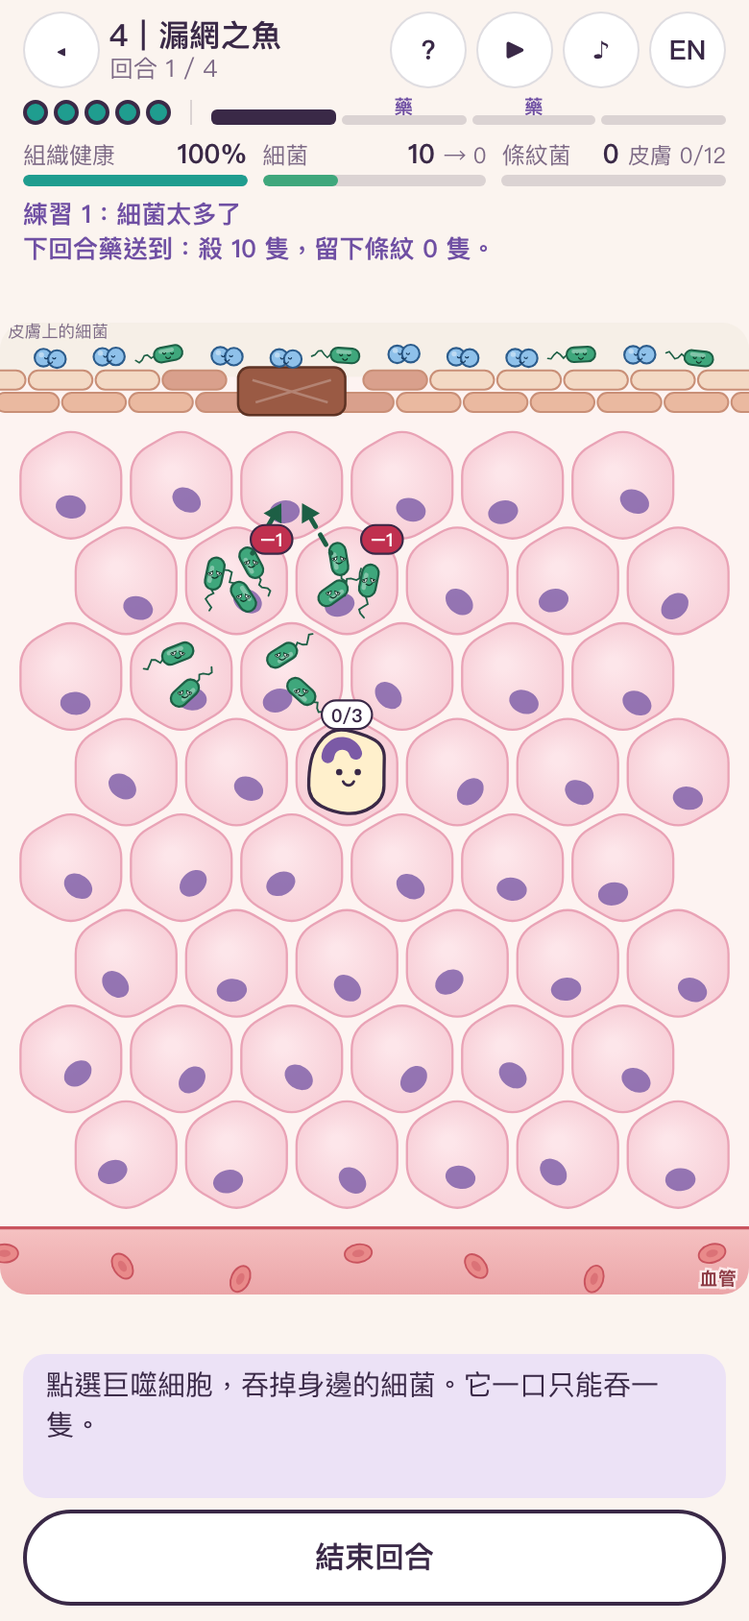
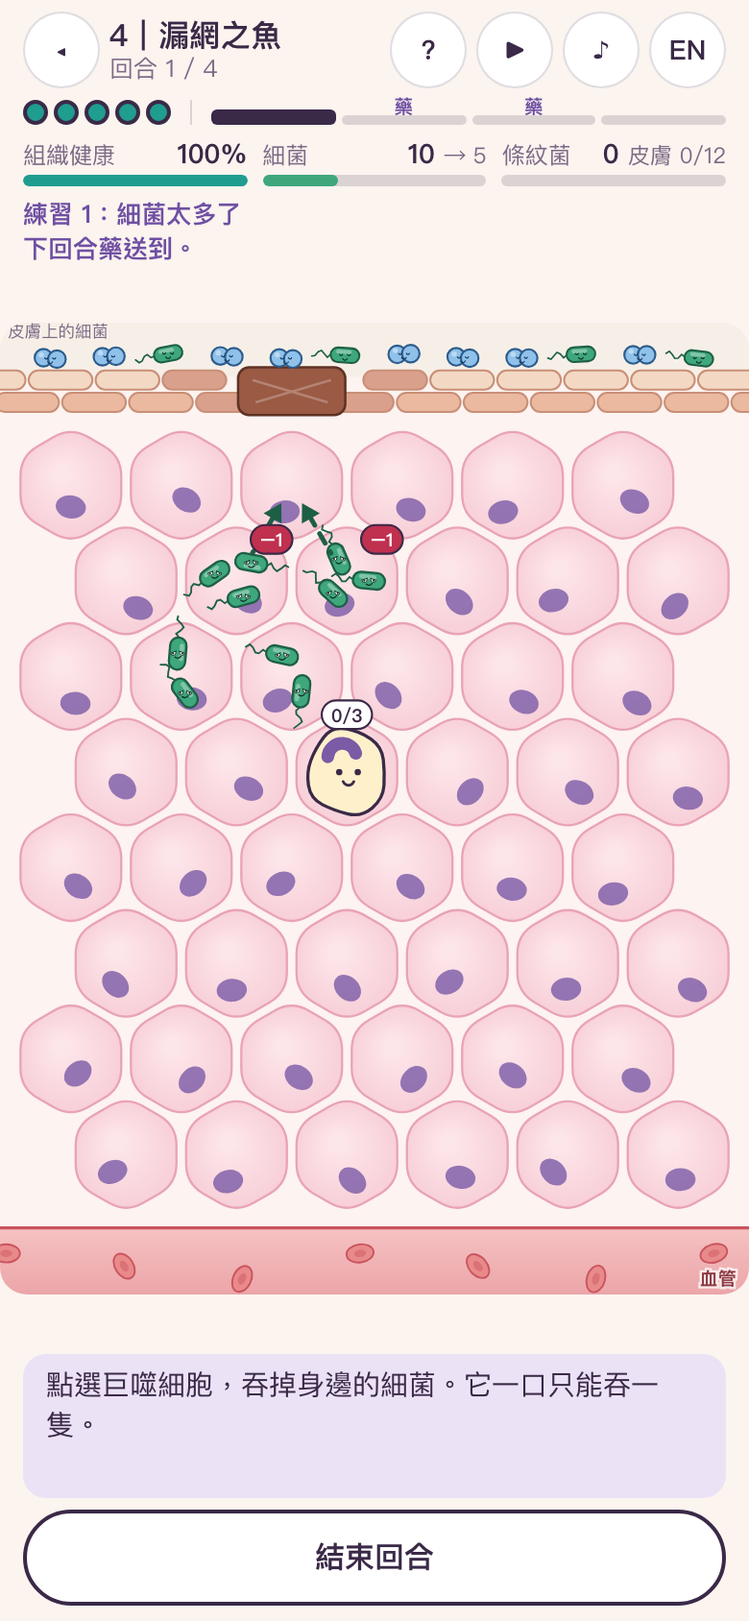
feat(ch4): two-dose course and fixes from the second review
- The course now does visible work on both turns: the first dose kills
  half the sensitive bacteria on each tile and stops them dividing, the
  second dose finishes them. No battle ends on the turn the drug arrives.
- The 'drug next turn' line uses the forecast instead of stale counts and
  shows no numbers in practice stages.
- Settle hint no longer jumps the queue and explains why a real course
  has a set length; battle 2 states that a doctor prescribed again; the
  'cost was worth paying' line depends on how much the drug helped.
- Design report: second review, updated balance table and screenshots.

diff --git a/js/mode-abx.js b/js/mode-abx.js
@@ -64,20 +64,23 @@
   async function settleFx(G) {
     while (AX.onCourse(G)) {
       const e = AX.dose(G); floraFx(G, e); B.hud();
-      B.hint('settle', ['細菌清光了，但療程照醫師的指示吃完。一個療程對皮膚的代價是固定的，和你打得快慢無關。', 'All clear, but the course is finished as prescribed. Its cost to the skin is fixed, however fast you were.'], true);
+      if (e) B.hint('settle', ['戰場上看得到細菌清光了，真實世界裡看不到，所以療程多長由開藥的人決定。這裡照樣吃完。', 'Here you can see the bacteria are gone. In real life you cannot, so the prescriber sets the length. The course is finished as prescribed.']);
       await IW.wait(750); if (B.G !== G) return;
     }
   }
-  // 醫師開的抗生素送到：不是玩家的按鈕
+  // 醫師開的抗生素：不是玩家的按鈕。第一劑殺一半、讓怕藥的細菌停止分裂；下一回合第二劑清完
   async function drugFx(G) {
-    const ev = G.drugEv, nS = ev.kill.reduce((n, e) => n + e.n, 0), nR = AX.nR(G); G.drugEv = null; B.mark('drug'); IW.sfx('calm');
-    B.ftext(W / 2, H - 70, tx('抗生素送到', 'The antibiotic arrives'), DRUG);
+    const ev = G.drugEv, nS = ev.kill.reduce((n, e) => n + e.n, 0), nR = AX.nR(G), left = AX.load(G) - nR; G.drugEv = null; IW.sfx('calm');
+    if (!ev.last) { B.mark('drug'); G.rAtDrug = nR; }
+    B.ftext(W / 2, H - 70, ev.last ? tx('第二劑', 'Second dose') : tx('抗生素送到', 'The antibiotic arrives'), DRUG);
     for (let k = 0; k < 18; k++) { const x = 16 + Math.random() * (W - 32), r0 = Math.random() * 6; B.fly({ x0: x, y0: H - 26, x1: x + (Math.random() - .5) * 50, y1: 76 + Math.random() * 90, dur: .5 + Math.random() * .4, draw: (px, py, q) => A.pill(px, py, r0 + q * 4, .95, 1 - q * .55) }); }
     await IW.wait(560); if (B.G !== G) return;
-    ev.kill.forEach((e, k) => { const t = G.tiles[e.i]; for (const s of t.sp) if (!s.r) B.burst(s.x, s.y, 6, DRUGC, 65, 2.2); sync(t); B.ftext(t.x, t.y - 22, '−' + e.n, DRUG); if (k < 4) IW.sfx('pop'); });
-    B.hint('drug1', ['抗生素隨血液送到全身，攻擊細菌才有的構造（例如細胞壁）。你的細胞沒有細胞壁，受到的影響小得多。', 'Carried by the blood, the antibiotic attacks things only bacteria have, like a cell wall. Your cells have none.'], true);
-    if (nR && nS >= nR) B.hint('surv', [`有條紋的 ${nR} 隻沒死。不是藥把它們變成這樣，它們本來就不一樣。剩下的交給巨噬細胞。`, nR > 1 ? `${nR} striped ones survived. The drug did not make them so; they already were. Over to the macrophages.` : 'The striped one survived. The drug did not make it so; it already was. Over to the macrophages.'], true);
-    if (nR && nS < nR) B.hint('weak', [nS ? `這次只有 ${nS} 隻死掉。闖進來的細菌，多數是這種藥對付不了的那一型。` : '這次一隻也沒死。闖進來的細菌，全是這種藥對付不了的那一型。', nS ? `Only ${nS} died. Most of the bacteria that got in this time are the kind this drug does not work on.` : 'None died. Every one of the bacteria that got in this time is the kind this drug does not work on.'], true);
+    ev.kill.forEach((e, k) => { const t = G.tiles[e.i], dead = t.sp.filter(s => !s.r).slice(0, e.n); for (const s of dead) B.burst(s.x, s.y, 6, DRUGC, 65, 2.2); sync(t); B.ftext(t.x, t.y - 22, '−' + e.n, DRUG); if (k < 4) IW.sfx('pop'); });
+    if (!ev.last) {
+      B.hint('drug1', ['抗生素隨血液送到全身，攻擊細菌才有的構造（例如細胞壁）。你的細胞沒有細胞壁，受到的影響小得多。', 'Carried by the blood, the antibiotic attacks things only bacteria have, like a cell wall. Your cells have none.'], true);
+      if (left) B.hint('half', [`藥需要時間：第一劑殺掉 ${nS} 隻，剩下 ${left} 隻怕藥的不再分裂，下一回合的第二劑會清完。`, `The drug takes time: the first dose killed ${nS}; the ${left} sensitive left have stopped dividing, and the next dose finishes them.`], true);
+      if (nR > nS + left) B.hint('weak', ['這次闖進來的細菌，多數是這種藥對付不了的那一型。', 'Most of the bacteria that got in this time are the kind this drug does not work on.'], true);
+    } else if (nR) B.hint('surv', [`藥殺得死的都死了，有條紋的 ${nR} 隻還在。不是藥把它們變成這樣，它們本來就不一樣。交給巨噬細胞。`, nR > 1 ? `Everything the drug can kill is dead; ${nR} striped ones remain. The drug did not make them so; they already were. Over to the macrophages.` : 'Everything the drug can kill is dead; the striped one remains. The drug did not make it so; it already was. Over to the macrophages.'], true);
     B.hud(); await IW.wait(650); if (B.G !== G) return;
     if (G.result && G.result.win) await settleFx(G);
   }
@@ -151,14 +154,14 @@
     }
     G.rMax = Math.max(G.rMax, AX.nR(G));
     AX.advance(G);
-    if (G.drugEv) { G.rAtDrug = AX.nR(G); B.hud(); await drugFx(G); }
+    if (G.drugEv) { B.hud(); await drugFx(G); }
   };
 
   /* ---------------- HUD ---------------- */
   M.hud = function (G, st) {
     const c = G.cfg, L = AX.load(G), nR = AX.nR(G), hp = AX.health(G), pl = G.phase === 'player', fc = pl ? G.fc : null, n = cen(G.flora), f = []; let bad = '';
     if (fc) {
-      if (!G.drug && G.turn === c.DRUG_AT - 1) f.push(`<b>${tx(`下回合藥送到：殺 ${L - nR} 隻，留下條紋 ${nR} 隻。`, `Drug next turn: kills ${L - nR}, leaves ${nR} striped.`)}</b>`);
+      if (!G.drug && G.turn === c.DRUG_AT - 1) f.push(`<b>${st && st.kind === 'practice' ? tx('下回合藥送到。', 'The drug arrives next turn.') : tx(`下回合藥送到。它對條紋菌無效（到時約 ${fc.nR} 隻）。`, `Drug next turn. It will not work on the striped (about ${fc.nR} by then).`)}</b>`);
       else if (!G.drug && G.turn < c.DRUG_AT) f.push(tx(`藥第 ${c.DRUG_AT} 回合送到。`, `Drug arrives on turn ${c.DRUG_AT}.`));
       if (AX.onCourse(G) && AX.nextDose(G.flora).length) f.push(`<span class="w">${tx(`療程 ${G.doses + 1}／${c.COURSE}：皮膚上圈起來的位子，有一個會換成條紋菌。`, `Course ${G.doses + 1}/${c.COURSE}: one circled spot on the skin turns striped.`)}</span>`);
       if (fc.nDmg && !(st && st.kind === 'practice')) f.push(tx(`${fc.nDmg} 格組織會受損。`, `${fc.nDmg} tile${fc.nDmg > 1 ? 's' : ''} will be damaged.`));
@@ -246,11 +249,11 @@
     const why = { tissue: tx('組織損傷過重', 'Too much tissue damage'), overrun: tx('感染失控', 'Infection out of control'), timeout: tx('感染仍未受控', 'Infection still not under control') }[r.why];
     const few = G.drug && G.killed < G.rAtDrug;
     let insight = !G.drug ? tx('抗生素還沒送到，這一場就結束了。', 'This one ended before the antibiotic arrived.')
-      : tx(`抗生素第 ${G.drugAt} 回合送到，${G.killed ? `殺死 <b>${G.killed}</b> 隻` : '<b>一隻也沒殺死</b>'}；它對 <b>${G.rAtDrug}</b> 隻條紋菌無效。巨噬細胞一共吞掉 ${G.eaten} 隻（其中條紋 ${G.eatenR} 隻）。`, `The antibiotic arrived on turn ${G.drugAt} and killed ${G.killed ? `<b>${G.killed}</b>` : '<b>none</b>'}; it did nothing to the <b>${G.rAtDrug}</b> striped. Macrophages engulfed ${G.eaten} in all (${G.eatenR} striped).`)
+      : tx(`抗生素第 ${G.drugAt} 回合送到，${G.killed ? `兩劑共殺死 <b>${G.killed}</b> 隻` : '<b>一隻也沒殺死</b>'}；它對 <b>${G.rAtDrug}</b> 隻條紋菌無效。巨噬細胞一共吞掉 ${G.eaten} 隻（其中條紋 ${G.eatenR} 隻）。`, `The antibiotic arrived on turn ${G.drugAt} and killed ${G.killed ? `<b>${G.killed}</b> over its two doses` : '<b>none</b>'}; it did nothing to the <b>${G.rAtDrug}</b> striped. Macrophages engulfed ${G.eaten} in all (${G.eatenR} striped).`)
       + (few ? tx('這次闖進來的細菌，多數是這種藥對付不了的那一型，所以藥能幫的有限。', ' Most of the bacteria that got in this time were the kind this drug does not work on, so it could only do so much.') : r.win ? tx('藥處理多數，巨噬細胞處理漏網的。', ' The drug handled the many; the macrophages handled the ones that got away.') : tx('時間軸上的虛線是條紋菌：怕藥的細菌消失之後，它們沒有對手，越長越多。', ' The dashed line on the timeline is the striped bacteria: once the others were gone they had no competition and kept growing.'));
     if (r.win && G.drug) insight += tx(`這個療程（${c.COURSE} 回合）讓皮膚上的條紋菌 <b>${a} → ${b}</b>。這個代價是固定的，和你打得快慢無關。`, ` This course (${c.COURSE} turns) took the striped bacteria on the skin from <b>${a} to ${b}</b>. That cost is fixed; it does not depend on how fast you were.`);
     if (G.mut) insight += tx(` 第 ${G.mutAt} 回合有細菌在分裂時抄錯，生出條紋的子代${G.mutAt < G.drugAt || !G.drug ? '——那時還沒有用藥' : ''}。`, ` On turn ${G.mutAt} a dividing bacterium made a copying error and produced a striped offspring${G.mutAt < G.drugAt || !G.drug ? ', before any drug was in use' : ''}.`);
-    let extra = G.key === 'p' ? '' : M.floraSvg([[tx('開戰時', 'At the start'), G.flora0], [tx(r.win ? '現在' : '結束時', r.win ? 'Now' : 'At the end'), G.flora]]) + (!r.win ? `<p class="note">${tx('這一場沒有守住，重打時皮膚上的細菌會回到開戰時的樣子。', 'This attempt was lost; when you replay it, the skin goes back to how it was at the start.')}</p>` : `<p class="note">${tx('畫紅線的位子原本住著怕藥的細菌，現在是條紋菌。闖進傷口的細菌來自皮膚，所以這會影響下一次。這一次的感染需要抗生素，這個代價是值得的。', 'Spots underlined in red used to hold drug-sensitive bacteria and now hold striped ones. Bacteria that enter a wound come from the skin, so this affects next time. This infection needed the antibiotic, and the cost was worth paying.')}</p>`);
+    let extra = G.key === 'p' ? '' : M.floraSvg([[tx('開戰時', 'At the start'), G.flora0], [tx(r.win ? '現在' : '結束時', r.win ? 'Now' : 'At the end'), G.flora]]) + (!r.win ? `<p class="note">${tx('這一場沒有守住，重打時皮膚上的細菌會回到開戰時的樣子。', 'This attempt was lost; when you replay it, the skin goes back to how it was at the start.')}</p>` : `<p class="note">${tx('畫紅線的位子原本住著怕藥的細菌，現在是條紋菌。闖進傷口的細菌來自皮膚，所以這會影響下一次。', 'Spots underlined in red used to hold drug-sensitive bacteria and now hold striped ones. Bacteria that enter a wound come from the skin, so this affects next time.')}${few ? tx('這一次藥能幫的已經有限；真實世界裡，醫師會改用別種抗生素。', ' This time the drug could only do so much; in real life a doctor would switch to a different antibiotic.') : tx('這一次的感染需要抗生素，這個代價是值得的。', ' This infection needed the antibiotic, and the cost was worth paying.')}</p>`);
     if (G.key === 'b2') {
       const rows = [['abx1', tx('第一道傷口', 'First wound')], ['abx2n', tx('第二道（感冒時沒吃）', 'Second (no pills)')], ['abx2p', tx('第二道（感冒時吃了）', 'Second (took pills)')]].filter(x => h[x[0]]);
       if (rows.length > 1) extra += `<table><tr><th>${tx('你的紀錄', 'Your record')}</th><th>${tx('闖入／條紋', 'Entered / striped')}</th><th>${tx('藥殺死', 'Drug killed')}</th><th>${tx('回合', 'Turns')}</th><th>${tx('組織', 'Tissue')}</th></tr>${rows.map(([k, n]) => { const x = h[k]; return `<tr><td>${n}</td><td>${x.n0}／<b>${x.r0}</b></td><td>${x.kill}</td><td>${x.turn}</td><td>${x.win ? x.hp + '%' : tx('失守', 'lost')}</td></tr>`; }).join('')}</table>
@@ -270,8 +273,8 @@
       [tx('細菌', 'Bacteria'), tx('每回合結束，每個菌落 +1 隻（一格最多 3 隻）。滿 3 隻的菌落會往箭頭方向擴散，並損傷所在組織。子代和親代一樣：條紋的生條紋的。', 'At the end of each turn every colony gains 1 (max 3 per tile). A colony of 3 spreads along its arrow and damages its tile. Offspring match the parent: striped ones produce striped ones.')],
       [tx('突變', 'Mutation'), tx(`沒有條紋的細菌分裂時，有很小的機會（遊戲裡約 ${Math.round(c.MU * 100)}%）抄錯，生出條紋的子代。突變是偶然的，藥不能「指定」它出現。`, `When an unstriped bacterium divides there is a small chance (about ${Math.round(c.MU * 100)}% in the game) of a copying error that produces a striped offspring. Mutations happen by chance; a drug cannot call one up.`)],
       [tx('巨噬細胞', 'Macrophage'), tx(`吞噬身邊的細菌，1 點吞 ${c.BITE} 隻，同格先吞條紋的；體內最多 ${c.CAP} 隻，回合結束消化 ${c.DIGEST} 隻。站在箭頭落點可以攔截擴散過來的細菌。藥對細菌有沒有效，對它沒有差別。`, `Engulfs adjacent bacteria, ${c.BITE} per AP, striped first; holds up to ${c.CAP} and digests ${c.DIGEST} at end of turn. Standing where an arrow lands intercepts the bacterium that spreads there. Whether a drug works on a bacterium makes no difference to it.`)],
-      [tx('抗生素', 'Antibiotic'), tx(`醫師開的藥，第 ${c.DRUG_AT} 回合自動送到，療程固定 ${c.COURSE} 回合：你不能提早、延後、縮短或停藥。送到時殺死組織裡所有沒有條紋的細菌；條紋菌不受影響。`, `Prescribed by a doctor. It arrives by itself on turn ${c.DRUG_AT} and the course is a fixed ${c.COURSE} turns: you cannot bring it forward, delay it, shorten it or stop it. On arrival it kills every unstriped bacterium in the tissue; striped ones are unaffected.`)],
-      [tx('皮膚上', 'On the skin'), tx(`療程的每一回合，皮膚上緊鄰條紋菌的一個細菌會死掉，由條紋菌補位。提早打贏，療程也照樣吃完，所以一個療程固定換掉 ${c.COURSE} 個位子。闖進傷口的細菌來自皮膚：伺機菌裡條紋的佔多少，下一次闖進來的就佔多少。`, `On each turn of the course, one bacterium next to a striped one on the skin dies and a striped one takes its place. If you win early the course is still finished, so one course always replaces ${c.COURSE} spots. Bacteria that enter a wound come from the skin: whatever share of the opportunists is striped, that share of the next invaders will be too.`)],
+      [tx('抗生素', 'Antibiotic'), tx(`醫師開的藥，第 ${c.DRUG_AT} 回合自動送到，療程固定 ${c.COURSE} 回合：你不能提早、延後、縮短或停藥。第一劑讓每一格沒有條紋的細菌死掉一半，剩下的不再分裂；第二劑清完。條紋菌不受影響。`, `Prescribed by a doctor. It arrives by itself on turn ${c.DRUG_AT} and the course is a fixed ${c.COURSE} turns: you cannot bring it forward, delay it, shorten it or stop it. The first dose kills half the unstriped bacteria on each tile and the rest stop dividing; the second dose finishes them. Striped ones are unaffected.`)],
+      [tx('皮膚上', 'On the skin'), tx(`療程的每一回合，皮膚上緊鄰條紋菌的一個細菌會死掉，由條紋菌補位。提早打贏，療程也照樣吃完，所以一個療程固定換掉 ${c.COURSE} 個位子。闖進傷口的細菌來自皮膚：伺機菌裡條紋的比例越高，下一次闖進來的條紋菌越多。`, `On each turn of the course, one bacterium next to a striped one on the skin dies and a striped one takes its place. If you win early the course is still finished, so one course always replaces ${c.COURSE} spots. Bacteria that enter a wound come from the skin: the larger the striped share of the opportunists, the more striped bacteria get in next time.`)],
       [tx('勝敗', 'Win / lose'), tx(`把組織裡的細菌清光就贏。組織健康歸零、細菌達 ${c.LOAD_MAX} 隻，或 ${c.TURNS} 回合用完就輸。`, `Clear every bacterium from the tissue to win. Lose if tissue health hits zero, bacteria reach ${c.LOAD_MAX}, or ${c.TURNS} turns run out.`)]];
     return `<div class="rules">${rows.map(r => `<b>${r[0]}</b><span>${r[1]}</span>`).join('')}</div>
       <p class="note">${tx('<b>這不是用藥建議。</b>真實的療程長度由開藥的醫療人員決定，不是固定幾天。請照指示使用抗生素，不要自己停藥、延長或加藥，也不要吃別人的或上次剩下的藥。', '<b>This is not advice about taking medicine.</b> The length of a real course is set by the health professional who prescribes it; it is not a fixed number of days. Take antibiotics exactly as directed, do not stop, extend or add to treatment on your own, and do not use someone else’s or leftover antibiotics.')}</p>`;
@@ -308,9 +311,9 @@
     stages: [
       { kind: 'practice', seed: 11, cfg: Object.assign({}, PC, { TURNS: 4 }), flora: 'CCSCCSCCCSCS', preset: { scabs: [2], units: [['mac', 20]], bac: { 7: 'SSS', 8: 'SSS', 13: 'SS', 14: 'SS' } },
         goal: ['練習 1：細菌太多了', 'Practice 1: too many bacteria'], won: ['抗生素：體外來的幫手', 'Antibiotics: help from outside the body'],
-        say: G => tx(`一次殺死 ${G.killed} 隻。抗生素不是免疫系統的一部分，是從體外來的藥。它攻擊細菌才有的構造（例如細胞壁，或細菌自己的蛋白質工廠），所以能殺細菌，又不太傷到你的細胞。很多抗生素原本就是微生物製造的：青黴素來自一種黴菌。`, `${G.killed} killed at once. An antibiotic is not part of the immune system; it is a drug from outside the body. It attacks structures that bacteria have (the cell wall, for example, or the bacterium’s own protein factories), which is why it can kill bacteria while doing little harm to your cells. Many antibiotics were first made by microbes: penicillin comes from a mold.`),
-        next: ['但不是每一隻都會死 ▸', 'But not every one dies ▸'], lost: ['抗生素第 2 回合就會送到。先吞幾隻，再按「結束回合」。', 'The antibiotic arrives on turn 2. Engulf a few, then press “End turn”.'],
-        guide: G => G.ap === 0 || G.turn > 1 ? '' : !selU(G) && !acts ? tx('點選巨噬細胞，吞掉身邊的細菌。它一口只能吞一隻。', 'Select the macrophage and engulf the bacteria next to it. It takes one per bite.') : acts >= 2 ? tx('來不及的。醫師開了抗生素，下一回合送到：按「結束回合」。', 'It cannot keep up. The antibiotic a doctor prescribed arrives next turn: press “End turn”.') : '' },
+        say: G => tx(`兩劑殺死 ${G.killed} 隻。抗生素不是免疫系統的一部分，是從體外來的藥。它攻擊細菌才有的構造（例如細胞壁，或細菌自己的蛋白質工廠），所以能殺細菌，又不太傷到你的細胞。很多抗生素原本就是微生物製造的：青黴素來自一種黴菌。`, `${G.killed} killed in two doses. An antibiotic is not part of the immune system; it is a drug from outside the body. It attacks structures that bacteria have (the cell wall, for example, or the bacterium’s own protein factories), which is why it can kill bacteria while doing little harm to your cells. Many antibiotics were first made by microbes: penicillin comes from a mold.`),
+        next: ['但不是每一隻都會死 ▸', 'But not every one dies ▸'], lost: ['抗生素第 2 回合就會送到，兩劑清完。先吞幾隻，再按「結束回合」。', 'The antibiotic arrives on turn 2 and takes two doses. Engulf a few, then press “End turn”.'],
+        guide: G => G.ap === 0 ? '' : G.turn > 1 ? (G.drug && !selU(G) ? tx('剩下的不再分裂了。繼續吞，或按「結束回合」等第二劑。', 'The rest have stopped dividing. Keep engulfing, or press “End turn” for the second dose.') : '') : !selU(G) && !acts ? tx('點選巨噬細胞，吞掉身邊的細菌。它一口只能吞一隻。', 'Select the macrophage and engulf the bacteria next to it. It takes one per bite.') : acts >= 2 ? tx('來不及的。醫師開了抗生素，下一回合送到：按「結束回合」。', 'It cannot keep up. The antibiotic a doctor prescribed arrives next turn: press “End turn”.') : '' },
       { kind: 'practice', seed: 12, cfg: Object.assign({}, PC, { TURNS: 7, DRUG_AT: 3 }), flora: 'CCSCCSCCCSCS', preset: { scabs: [3], units: [['mac', 25]], bac: { 8: 'SSS', 9: 'SS', 14: 'SS', 16: 'S' }, mutate: { turn: 1, tile: 16 } },
         goal: ['練習 2：留意細菌分裂', 'Practice 2: watch them divide'], won: ['藥沒有改變細菌，只決定誰留下來', 'The drug did not change the bacteria; it decided which were left'],
         say: G => tx('那隻條紋菌是第 1 回合分裂時抄錯才出現的，那時還沒有用藥。抗生素沒有製造它，也沒有「教會」它什麼。', 'The striped bacterium appeared from a copying error on turn 1, before any drug was in use. The antibiotic did not create it or “teach” it anything.')
@@ -335,7 +338,7 @@
           if (c.pill === undefined) { skipPre = false; await cold(B, G); if (B.G === G) B.go(4); return; }      // 選完之後，用新的皮膚菌群重新佈置這一場
           if (skipPre) { skipPre = false; return; }
           await B.ask(() => ({ html: `<h2>${tx('又過了一陣子', 'Some time later')}</h2><h1>${tx('又一道傷口', 'Another wound')}</h1>
-            <p>${tx('闖進傷口的細菌來自你的皮膚。伺機菌裡條紋的佔多少，進來的就佔多少。', 'The bacteria that enter a wound come from your skin. Whatever share of the opportunists is striped, that share of the invaders is too.')}</p>
+            <p>${tx('闖進傷口的細菌來自你的皮膚：伺機菌裡條紋的比例越高，進來的條紋菌越多。醫師看過之後，開了和上次同一種抗生素。', 'The bacteria that enter a wound come from your skin: the larger the striped share of the opportunists, the more striped ones get in. A doctor has seen it and prescribed the same antibiotic as last time.')}</p>
             ${M.floraSvg([[tx('第一道傷口前', 'Before wound 1'), M.base()], [tx('現在', 'Now'), G.flora]])}
             <p>${tx(`現在皮膚上的伺機菌，有 <b>${pct(G.flora)}%</b> 是這種抗生素對付不了的（第一道傷口之前是 ${pct(M.base())}%）。這次闖進來 ${G.load0} 隻，其中 <b>${G.nR0}</b> 隻有條紋。`, `Of the opportunists on your skin now, <b>${pct(G.flora)}%</b> are ones this antibiotic does not work on (before the first wound it was ${pct(M.base())}%). This time ${G.load0} got in, <b>${G.nR0}</b> of them striped.`)}</p>
             <div class="btns"><button class="pill pri" id="go">${tx('開始 ▸', 'Begin ▸')}</button></div>`, on: { go: () => 1 } }));

diff --git a/js/app.js b/js/app.js
@@ -147,11 +147,12 @@
       <h2>${tx('第 4 章：抗生素與抗藥性', 'Chapter 4: antibiotics and resistance')}</h2><ul>
         ${L('<b>這一章不是用藥建議。</b>真實世界裡，要不要用抗生素、用哪一種、用多久，由醫療人員判斷。請照指示使用，不要自己停藥、延長或加藥，也不要吃別人的或上次剩下的藥。', '<b>This chapter is not advice about taking medicine.</b> In real life, whether to use an antibiotic, which one and for how long are decisions for a health professional. Take antibiotics exactly as directed, do not stop, extend or add to treatment on your own, and do not use someone else’s or leftover ones.')}
         ${L('戰場上沒有「抗生素」按鈕，是刻意的。藥在固定的回合自動送到、療程固定 2 回合，玩家不能提早、延後或停藥，這樣「什麼時候用、用多久」就不會變成可以鑽研的操作。整章唯一由玩家決定的用藥，是感冒那天要不要吃別人給的抗生素。', 'There is deliberately no “antibiotic” button on the battlefield. The drug arrives by itself on a fixed turn and the course is a fixed 2 turns; the player cannot bring it forward, delay it or stop it, so that “when and for how long” never becomes something to optimize. The only drug decision the player makes in the whole chapter is whether to take someone else’s antibiotics for a cold.')}
+        ${L('遊戲裡你看得到細菌什麼時候清光，療程卻照樣吃完。真實世界裡看不到最後一隻細菌什麼時候消失，症狀好轉也不代表感染已經清除；療程多長，由開藥的人依感染的種類決定。', 'In the game you can see when the bacteria are gone, and the course is finished anyway. In real life nobody can see when the last bacterium is gone, and feeling better does not mean the infection has cleared; how long a course lasts is decided by the prescriber according to the kind of infection.')}
         ${L('「一個療程 2 回合、固定換掉皮膚上 2 個位子」是遊戲設定，不代表真實療程的長度或影響的大小。真實的療程長度依感染的種類而不同。', '“A course is 2 turns and always replaces 2 spots on the skin” is a game rule; it does not represent the length of a real course or the size of its effect. Real courses differ in length by the kind of infection.')}
         ${L('遊戲裡，正確用藥的那兩場幾乎都能打贏。真實的嚴重細菌感染需要及時治療；不要因為這款遊戲而拒絕或拖延醫師開的抗生素。', 'In the game, the two battles where the antibiotic is used properly are almost always won. A serious bacterial infection in real life needs timely treatment; do not refuse or delay an antibiotic a doctor has prescribed because of this game.')}
         ${L('遊戲裡只有一種抗生素、一種抗藥性。真實的抗生素有很多種，抗藥的方式也很多，同一種細菌可能同時對好幾種藥有抗藥性。', 'The game has one antibiotic and one kind of resistance. In reality there are many antibiotics and many ways to resist them, and one bacterium can be resistant to several drugs at once.')}
         ${L('條紋是遊戲的記號。真實的抗藥細菌外觀看不出差別，要靠檢驗（例如培養與藥物敏感性試驗）才知道。', 'The stripes are a marker in the game. Real resistant bacteria look no different; it takes testing (such as culture and susceptibility testing) to know.')}
-        ${L('「藥一送到，怕藥的細菌立刻全部死掉」是簡化。真實的抗生素需要時間，效果和藥物濃度有關；有些是殺死細菌，有些是讓細菌停止生長。', '“The moment the drug arrives, every sensitive bacterium dies” is a simplification. Real antibiotics take time and depend on drug concentration; some kill bacteria and others stop them growing.')}
+        ${L('「兩劑、每劑殺一半」是遊戲設定。真實的抗生素需要時間，效果和藥物濃度有關；有些是殺死細菌，有些是讓細菌停止生長。', '“Two doses, each killing half” is a game rule. Real antibiotics take time and depend on drug concentration; some kill bacteria and others stop them growing.')}
         ${L('遊戲裡的突變機率（每次分裂約 3%）比真實高出許多個數量級，為的是讓你在一場戰鬥裡有機會看到。', 'The game’s mutation chance (about 3% per division) is many orders of magnitude higher than in reality, so that you have a chance of seeing one within a battle.')}
         ${L('抗藥基因也能在細菌之間直接傳遞（水平基因轉移），甚至在不同種的細菌之間。遊戲沒有呈現。', 'Resistance genes can also pass directly between bacteria (horizontal gene transfer), even between different species. The game does not show this.')}
         ${L('帶著抗藥基因常常有代價，所以停止用藥後抗藥細菌有可能減少。遊戲用「幾個月後恢復一格」示意；研究顯示真實的逆轉通常很慢，抗藥細菌也可能長期留著，不能指望它自己消失。', 'Carrying a resistance gene often has a cost, so resistant bacteria may decline once the drug is no longer used. The game sketches this as “one spot recovers after some months”; studies suggest real reversal is usually slow, resistant bacteria can persist for a long time, and they cannot be counted on to go away.')}

diff --git a/js/rules.js b/js/rules.js
@@ -266,7 +266,8 @@
      皮膚表面另有一排菌群 flora（12 個位子）：C＝無害的住戶、S＝怕藥的伺機菌、R＝不怕藥的伺機菌。
      抗生素不是玩家的按鈕：它是醫師開的藥，在第 DRUG_AT 回合開始時自動送到，療程長度固定（COURSE 回合）。
      玩家不能提早、延後、縮短、延長或中途停止（刻意的設計：遊戲不讓「何時用藥、用多久」變成可以最佳化的操作）：
-       開始的當下殺死組織裡所有怕藥的細菌；療程的每一回合，皮膚上緊鄰條紋菌的一個怕藥細菌死掉，由條紋菌補位。
+       藥需要時間：第一劑讓每一格怕藥的細菌死掉一半（無條件進位），而且療程中怕藥的細菌不再分裂、擴散；
+       下一回合的第二劑把剩下的清完。療程的每一回合，皮膚上緊鄰條紋菌的一個怕藥細菌死掉，由條紋菌補位。
        提早打贏，剩下的療程也照樣吃完（settle）。所以一個療程對皮膚的代價是固定的，和打得快慢、何時開始無關；
        玩家唯一能改變的，是要不要多一個不必要的療程。沒有用藥的幾個月裡，皮膚會恢復一格（recover）。
      抗藥性不是藥「教」出來的：突變在分裂時隨機發生（MU），有沒有用藥都一樣；藥只決定誰留下來。
@@ -333,10 +334,11 @@
   AX.onCourse = S => !!S.drug && S.doses < S.cfg.COURSE;
   AX.dose = S => { S.doses++; return AX.floraTick(S.flora, S.rng); };
   AX.settle = S => { const ev = []; while (AX.onCourse(S)) ev.push(AX.dose(S)); return ev; };   // 提早打贏：剩下的療程照樣吃完
-  AX.actDrug = function (S) {
-    const ev = { kill: [] };
-    for (const t of S.tiles) { const n = t.b.filter(x => !x).length; if (n) { t.b = t.b.filter(x => x); ev.kill.push({ i: t.i, n }); S.killed += n; } }
-    S.drug = 1; S.drugAt = S.turn; return ev;
+  AX.drugOn = S => !!S.drug && S.turn < S.drugAt + S.cfg.COURSE;      // 藥還在體內：怕藥的細菌不分裂、不擴散
+  AX.actDrug = function (S, last) {                           // last＝療程最後一劑：把剩下怕藥的清完
+    const ev = { kill: [], last: !!last };
+    for (const t of S.tiles) { const n = t.b.filter(x => !x).length, k = last ? n : Math.ceil(n / 2); if (k) { let d = k; t.b = t.b.filter(x => x || d-- <= 0); ev.kill.push({ i: t.i, n: k }); S.killed += k; } }
+    if (!S.drug) { S.drug = 1; S.drugAt = S.turn; } return ev;
   };
   // ---- 細菌階段 ----
   AX.phaseDigest = S => { const ev = []; for (const u of S.units) if (u.stomach > 0) { const n = Math.min(S.cfg.DIGEST, u.stomach); u.stomach -= n; ev.push({ id: u.id, n }); } return ev; };
@@ -346,7 +348,8 @@
     const ev = [];
     for (const t of S.tiles.filter(t => t.b.length === 3)) {
       if (t.spreadTo < 0) continue;
-      const to = S.tiles[t.spreadTo], u = unitAt(S, to.i), r = t.b[Math.floor(S.rng() * 3)];
+      const pool = AX.drugOn(S) ? t.b.filter(x => x) : t.b; if (!pool.length) continue;
+      const to = S.tiles[t.spreadTo], u = unitAt(S, to.i), r = pool[Math.floor(S.rng() * pool.length)];
       if (u && u.stomach < S.cfg.CAP) { u.stomach++; S.eaten++; if (r) S.eatenR++; ev.push({ from: t.i, to: to.i, unit: u.id, r }); }
       else if (to.b.length < 3) ev.push({ from: t.i, to: to.i, r });
     }
@@ -358,7 +361,8 @@
     if (sc && sc.turn === S.turn) { const ok = list.filter(i => { const b = S.tiles[i].b; return b.length > 0 && b.length < 3 && !b.includes(1); }); mt = ok.includes(sc.tile) ? sc.tile : ok.length ? ok[ok.length - 1] : -1; }
     for (const i of list) {
       const t = S.tiles[i]; if (!t.b.length || t.b.length >= 3) continue;
-      let r = t.b[Math.floor(S.rng() * t.b.length)], mut = false;
+      const pool = AX.drugOn(S) ? t.b.filter(x => x) : t.b; if (!pool.length) continue;
+      let r = pool[Math.floor(S.rng() * pool.length)], mut = false;
       if (i === mt) { r = 0; mut = true; S.script = null; } else if (!r && S.rng() < S.cfg.MU) mut = true;
       if (mut) { r = 1; S.mut++; if (!S.mutAt) S.mutAt = S.turn; }
       t.b.push(r); ev.push({ i, r, mut });
@@ -378,7 +382,7 @@
     if (L >= S.cfg.LOAD_MAX) return S.result = { win: false, why: 'overrun' };
     if (S.turn >= S.cfg.TURNS) return S.result = { win: false, why: 'timeout' };
     S.turn++; S.ap = S.cfg.AP; S.drugEv = null;
-    if (!S.drug && S.turn === S.cfg.DRUG_AT) { S.drugEv = AX.actDrug(S); if (AX.load(S) === 0) return S.result = { win: true }; }   // 醫師開的抗生素送到：不花行動點數，也不由玩家決定時機
+    if (S.turn >= S.cfg.DRUG_AT && S.turn < S.cfg.DRUG_AT + S.cfg.COURSE) { S.drugEv = AX.actDrug(S, S.turn === S.cfg.DRUG_AT + S.cfg.COURSE - 1); if (AX.load(S) === 0) return S.result = { win: true }; }   // 醫師開的抗生素：每回合一劑，不花行動點數，也不由玩家決定時機
     AX.plan(S); return null;
   };
   AX.clone = S => Object.assign({}, S, { tiles: S.tiles.map(t => Object.assign({}, t, { b: t.b.slice() })), units: S.units.map(u => Object.assign({}, u)), flora: S.flora.slice(), rng: () => .5, result: null });
